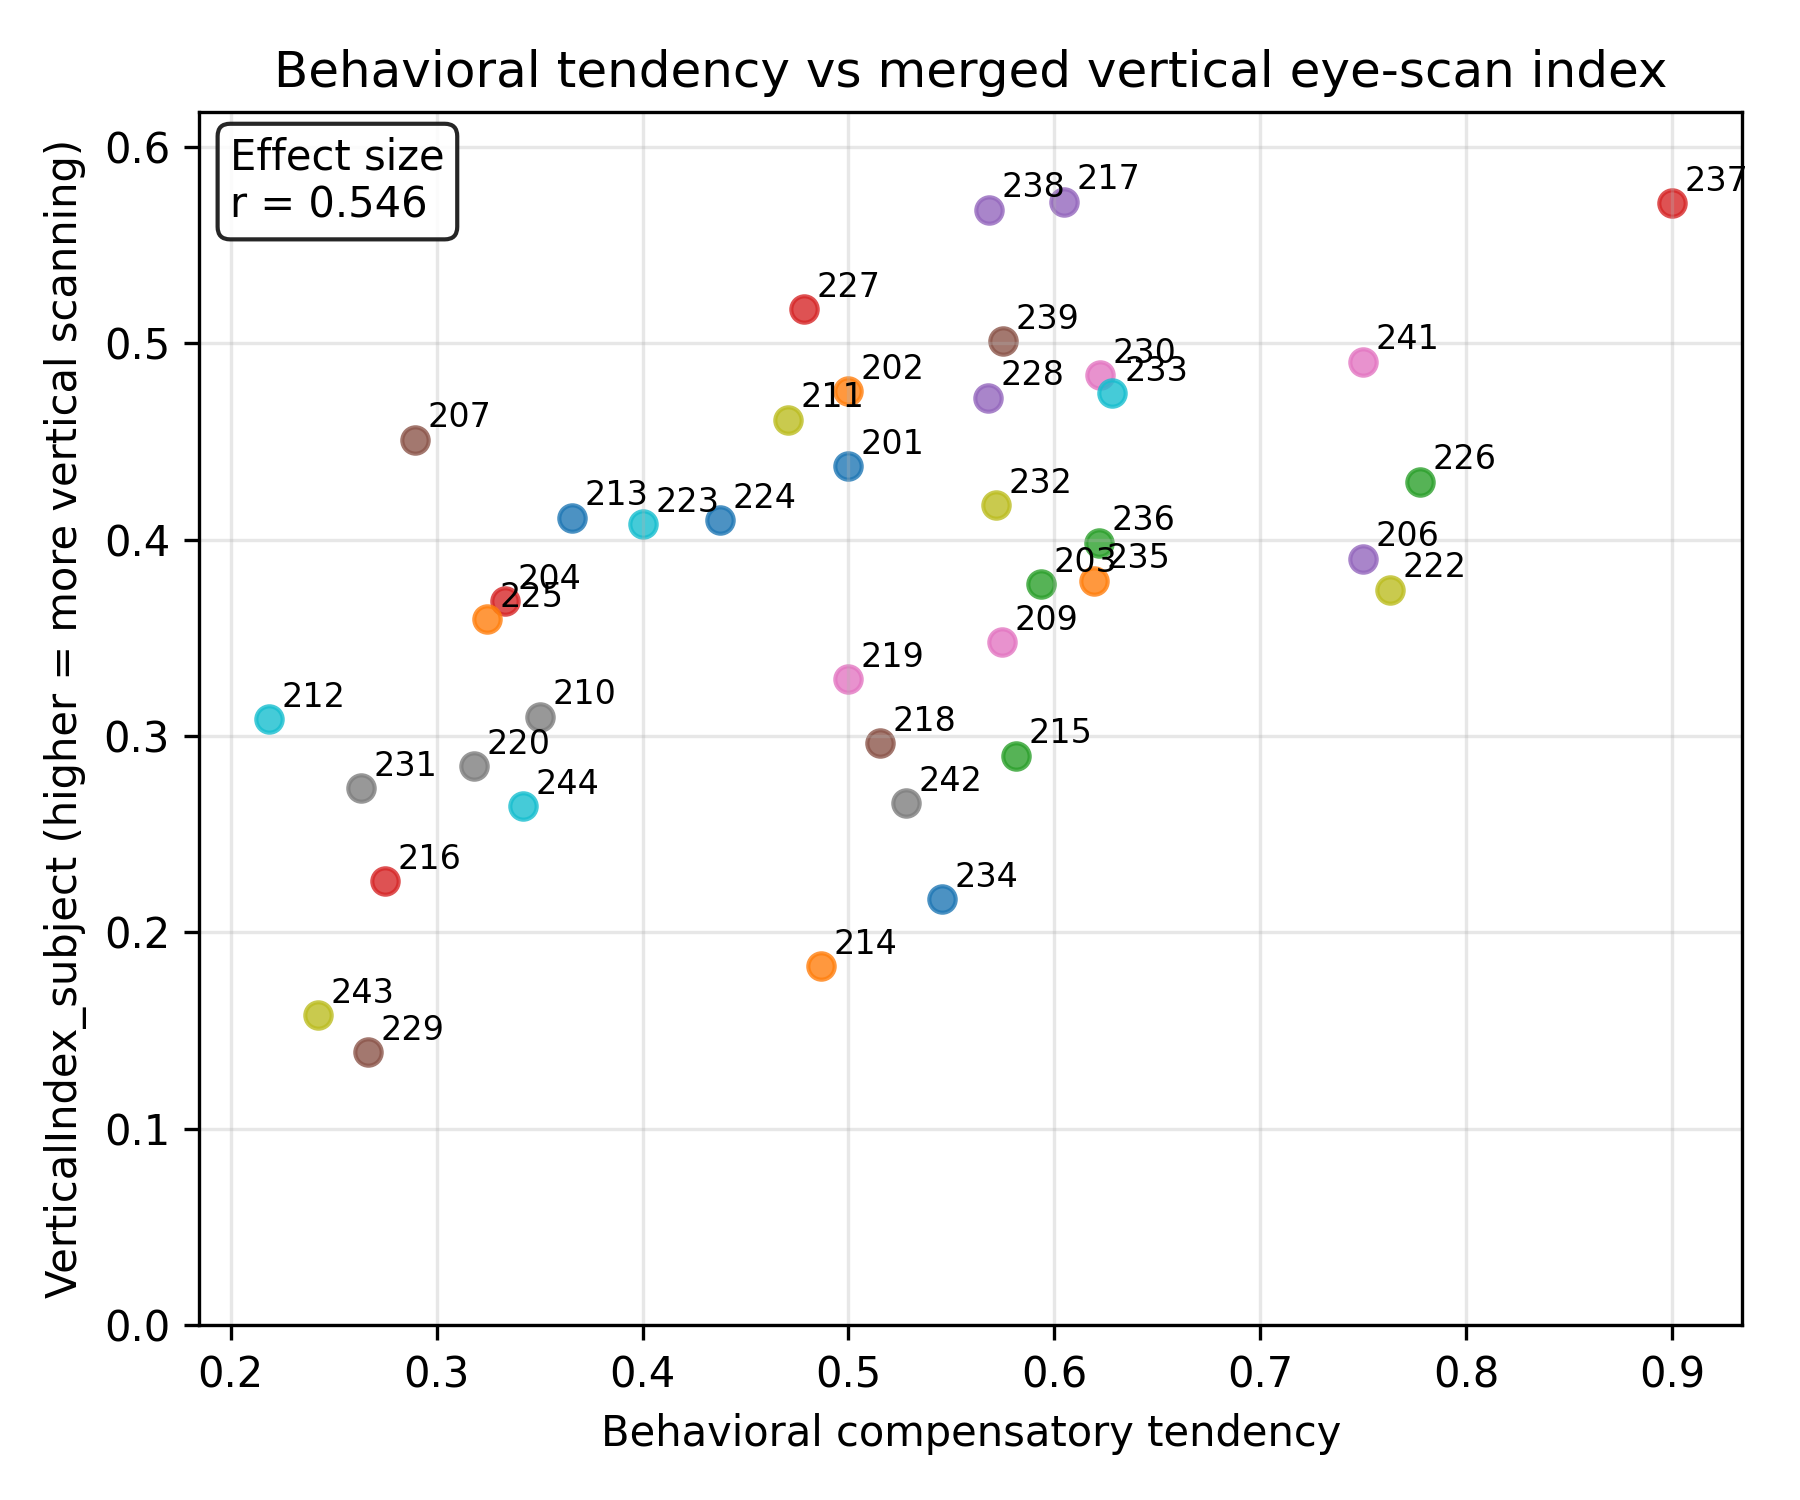
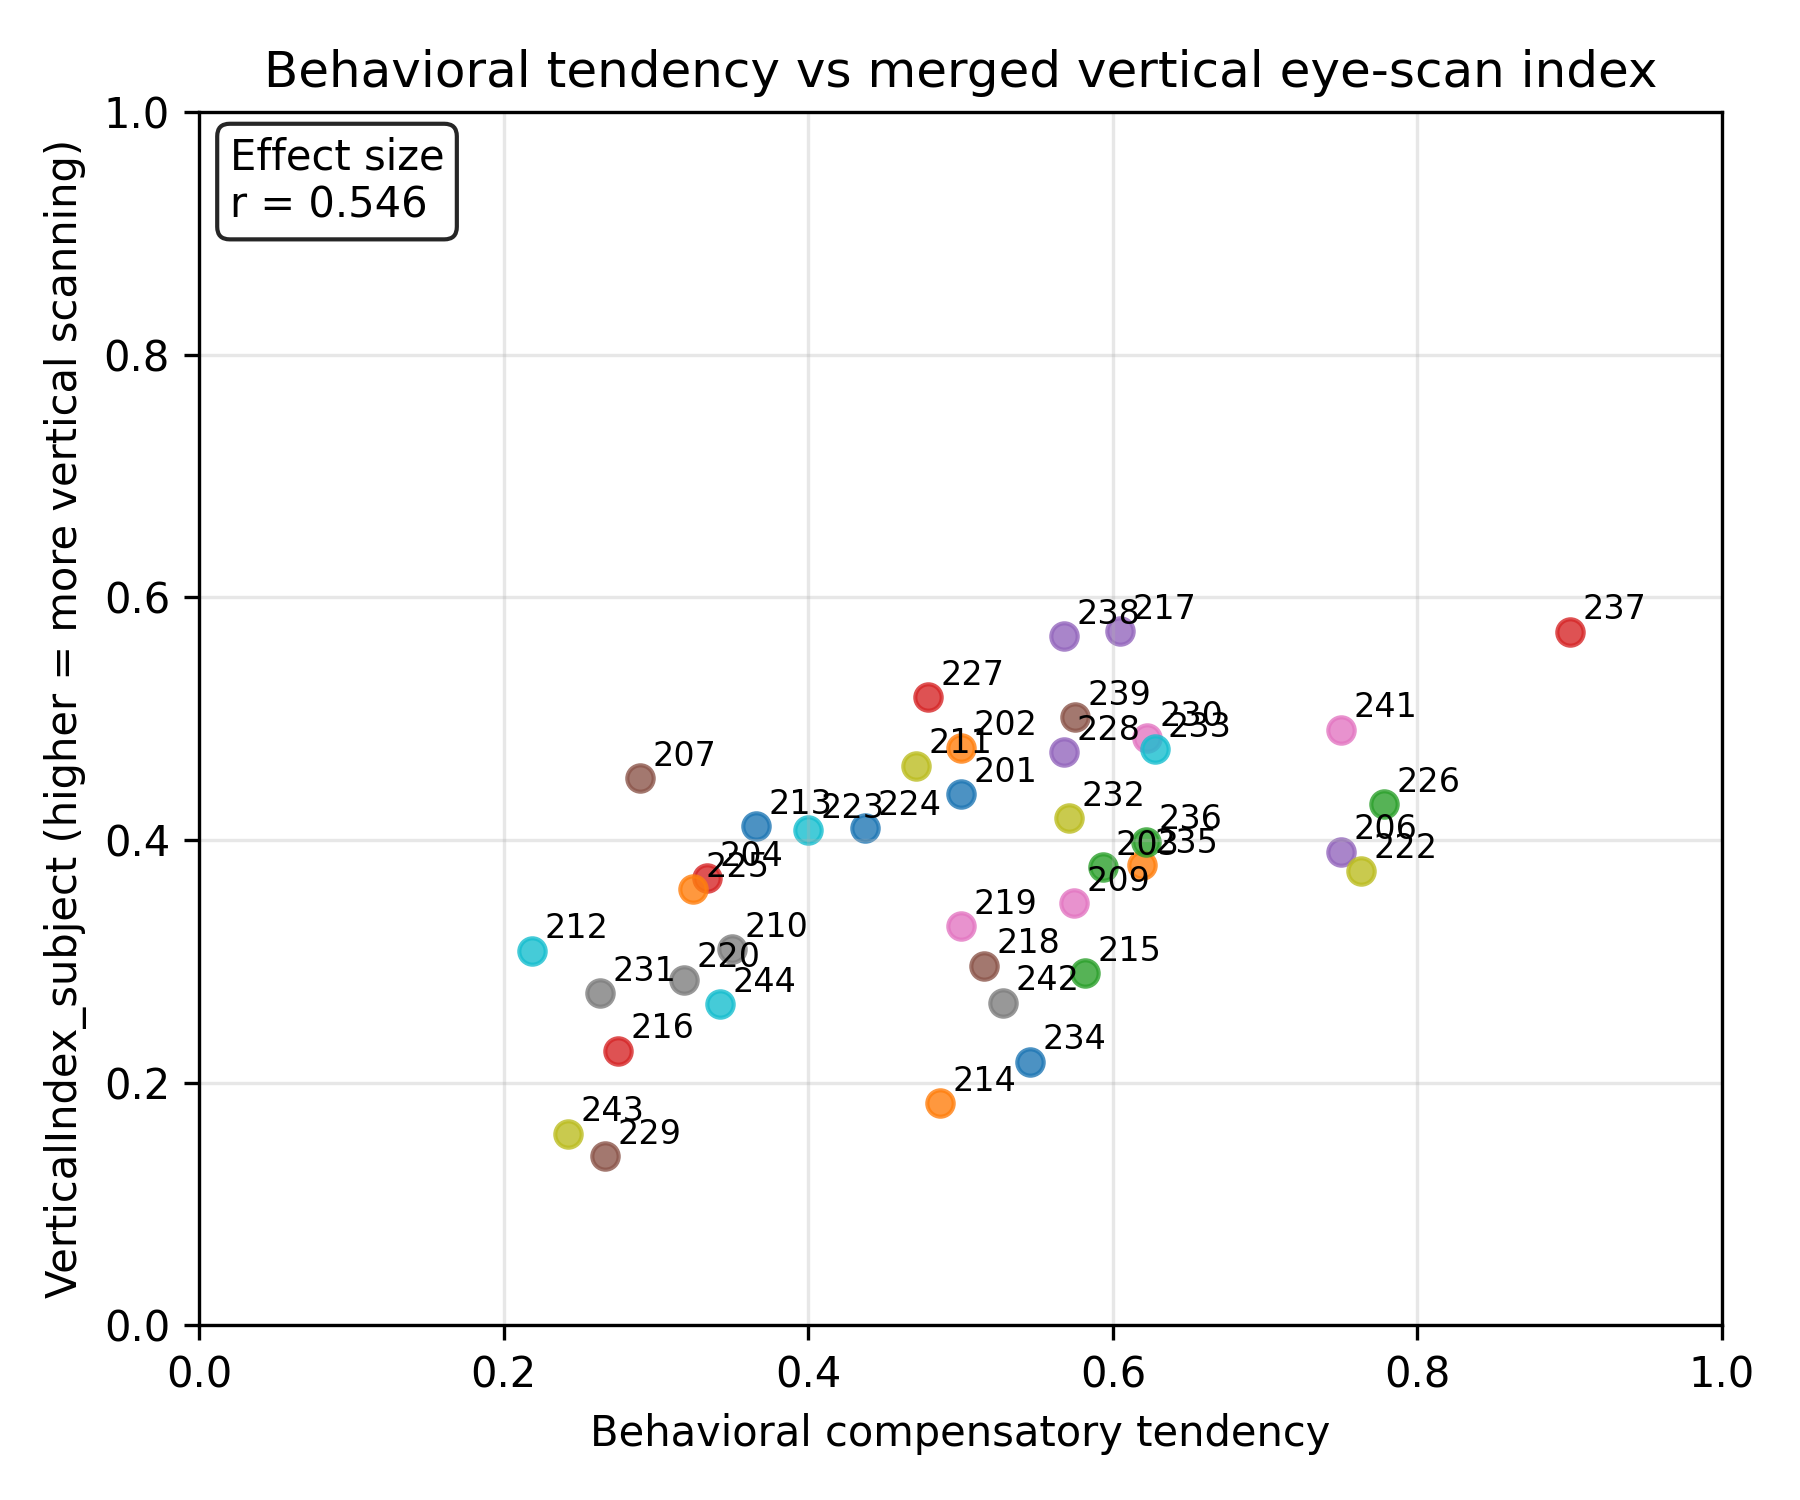
feat: update plot limits for behavior vs vertical eye-scan index and scatter plots

diff --git a/src/analysis/python/correlate_behavior_eye.py b/src/analysis/python/correlate_behavior_eye.py
@@ -345,6 +345,9 @@ def scatter_wa_vs_vertical(
         "and tendency for vertical scanning"
     )
 
+    plt.xlim(0, 1)
+    plt.ylim(0, 1)
+
     # For small samples, a legend helps the supervisor see which
     # color corresponds to which participant.
     if n_subjects <= 10:
@@ -415,6 +418,9 @@ def scatter_by_subject(
     plt.xlabel(x_label)
     plt.ylabel(y_label)
     plt.title(title)
+
+    plt.xlim(0, 1)
+    plt.ylim(0, 1)
 
     if n_subjects <= 10:
         plt.legend(title="Subject ID", fontsize=8)

diff --git a/src/analysis/python/merged_blocks/correlate_behavior_eye_merged_blocks.py b/src/analysis/python/merged_blocks/correlate_behavior_eye_merged_blocks.py
@@ -245,11 +245,8 @@ def scatter_behavior_vs_vertical(
     plt.ylabel("VerticalIndex_subject (higher = more vertical scanning)")
     plt.title("Behavioral tendency vs merged vertical eye-scan index")
 
-    y_max = float(plot_df[eye_col].max())
-    if y_max <= 0:
-        y_max = 0.01
-    y_upper = min(1.0, y_max * 1.08)
-    plt.ylim(0, y_upper)
+    plt.xlim(0, 1)
+    plt.ylim(0, 1)
 
     if effect_size_r is not None:
         plt.text(
